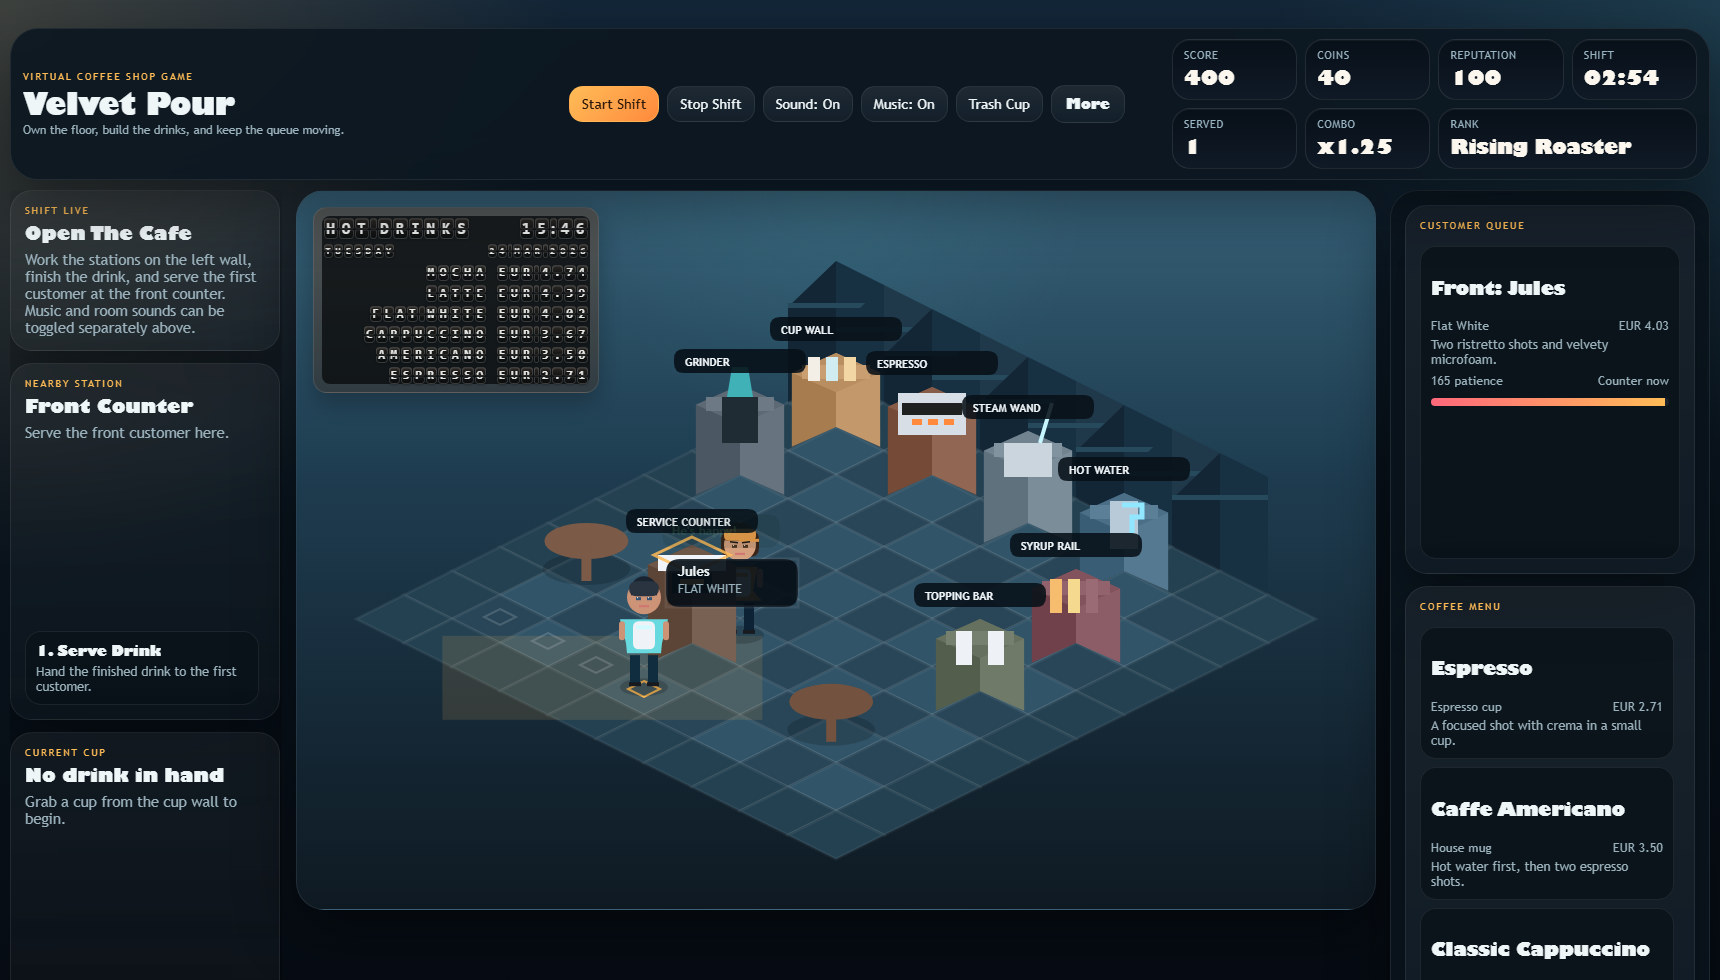
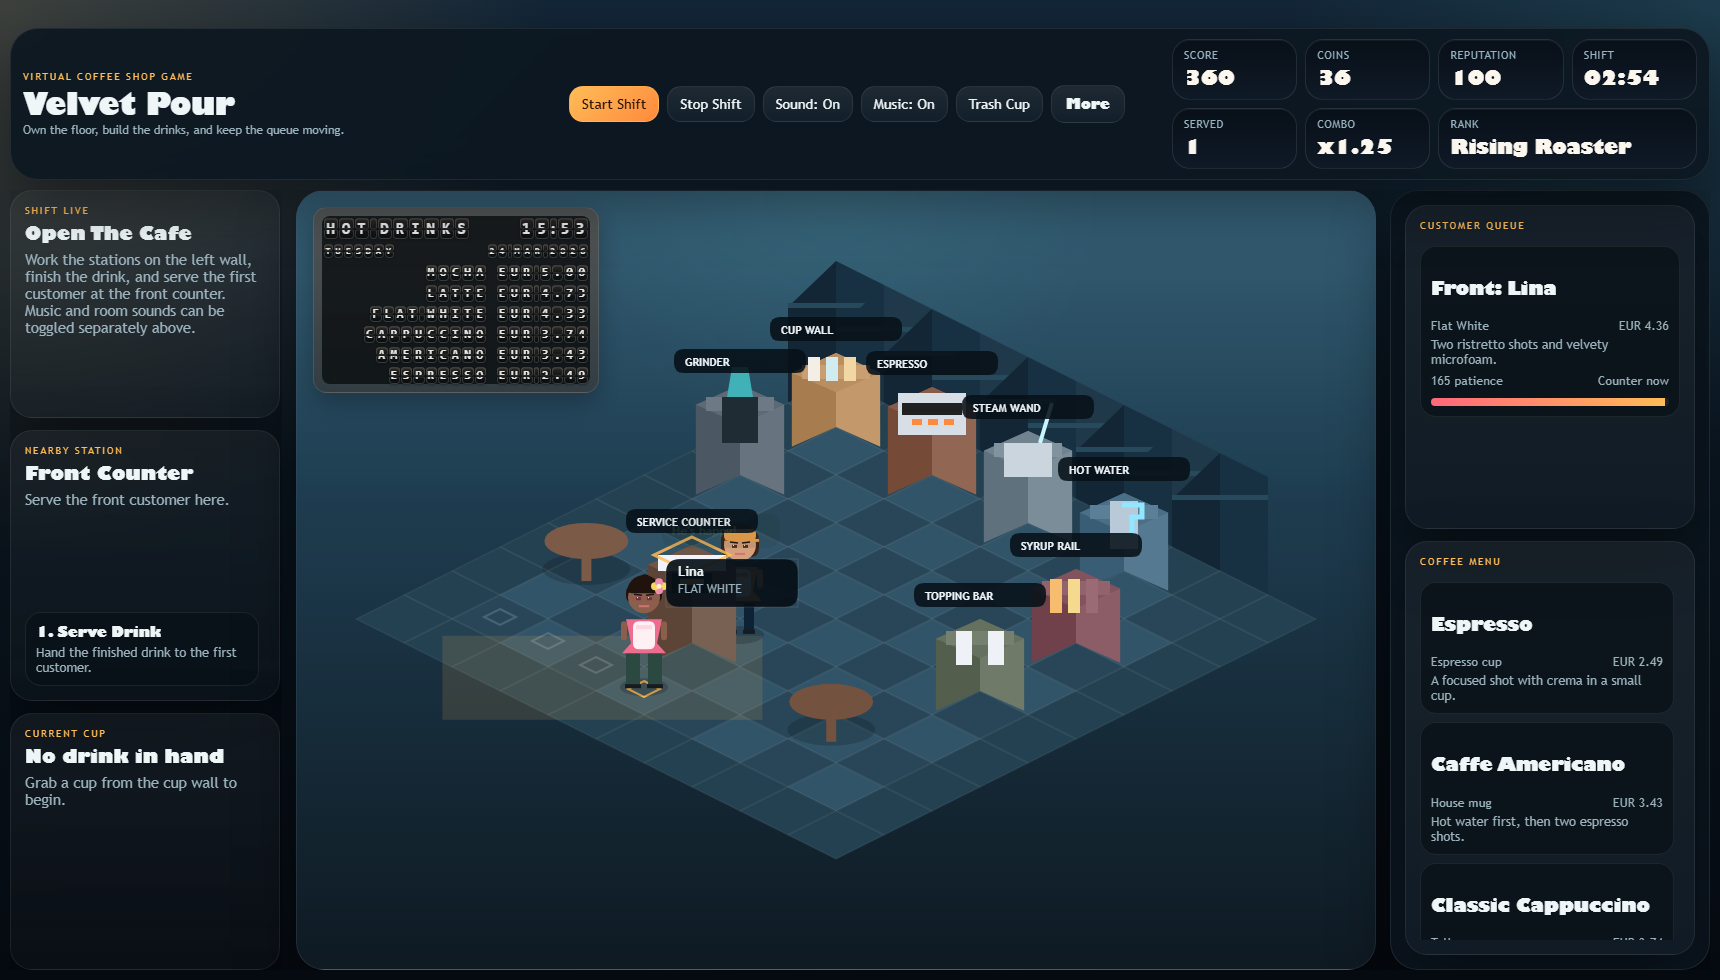
Fix viewport layout and panel scrolling

diff --git a/styles/app.css b/styles/app.css
@@ -19,6 +19,7 @@
 
 html,
 body {
+  height: 100%;
   margin: 0;
   min-height: 100%;
   background:
@@ -52,7 +53,8 @@ code {
 }
 
 .app-shell {
-  min-height: 100vh;
+  height: 100dvh;
+  min-height: 100dvh;
   display: grid;
   grid-template-rows: auto minmax(0, 1fr);
   gap: 10px;
@@ -221,16 +223,19 @@ button:disabled {
 .content-grid {
   min-height: 0;
   display: block;
+  height: 100%;
 }
 
 .main-column {
   min-height: 0;
   height: 100%;
+  overflow: hidden;
 }
 
 .view-panel {
   display: none;
-  min-height: 100%;
+  min-height: 0;
+  height: 100%;
 }
 
 .view-panel.is-active {
@@ -241,17 +246,17 @@ button:disabled {
   display: grid;
   grid-template-columns: 272px minmax(0, 1fr) 320px;
   gap: 14px;
-  align-items: start;
-  height: calc(100vh - 98px);
-  min-height: 640px;
+  align-items: stretch;
+  height: 100%;
+  min-height: 0;
 }
 
 .left-rail {
   display: grid;
-  grid-template-rows: auto minmax(0, 1fr) minmax(0, 0.95fr);
+  grid-template-rows: minmax(128px, 0.84fr) minmax(0, 1fr) minmax(0, 0.95fr);
   gap: 12px;
   align-self: stretch;
-  overflow: auto;
+  overflow: hidden;
   padding-right: 2px;
 }
 
@@ -377,6 +382,7 @@ button:disabled {
   position: relative;
   width: 100%;
   min-height: 0;
+  overflow: auto;
 }
 
 .overlay-card h2 {
@@ -459,6 +465,7 @@ button:disabled {
   display: grid;
   gap: 8px;
   margin-top: 10px;
+  align-content: start;
 }
 
 .action-list {
